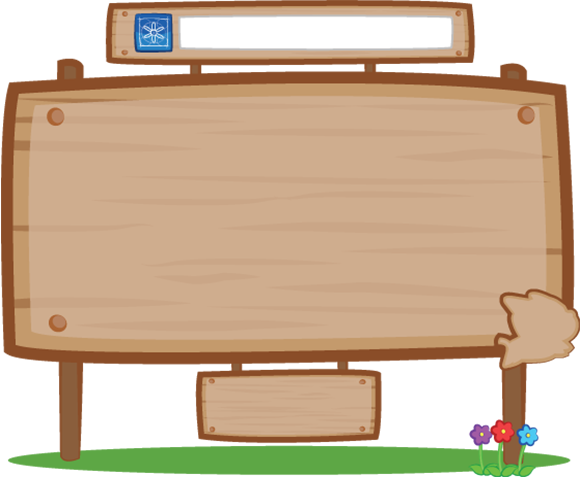
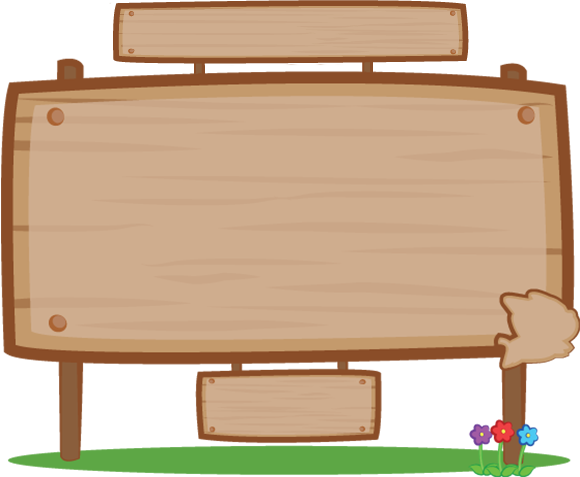
YES!!!!!

Changed region(s): [[0.1552, 0.0, 0.8379, 0.1468]]

diff --git a/index.html b/index.html
@@ -45,7 +45,8 @@
                             <div id="main_billboard" >
                                 <img id="main_slider_bg_img" src="images/main_slider_bg.png" />
                                 <form id="test_flight_form">
-                                    <input placeholder="Test Flight Email" type="text" name="firstname">
+                                    <button type="submit" style="border: 0; background: transparent"/> <img id="testflight_logo" src="images/test_flight_logo.png" alt="submit" /></button>
+                                    <input placeholder="Test Flight Email" type="text" name="email">
                                 </form>
                                 <div id="vid">
                                   <iframe src="//www.youtube.com/embed/sd4bqmP_460?rel=0" frameborder="0" allowfullscreen></iframe>

diff --git a/index.css b/index.css
@@ -51,8 +51,19 @@ h1, h2, h3 {
 }
 
 #test_flight_form input {
-    width: 60%;
-    margin-left: 10%;
+    position: absolute;
+    top: 5.5%;
+    width: 90%;
+    height: 16%;
+    right: -28%;
+}
+
+#testflight_logo {
+    position: absolute;
+    top: 6%;
+    left: 25%;
+    height: 16%;
+    width: 11%;
 }
 
 #main_bg {
